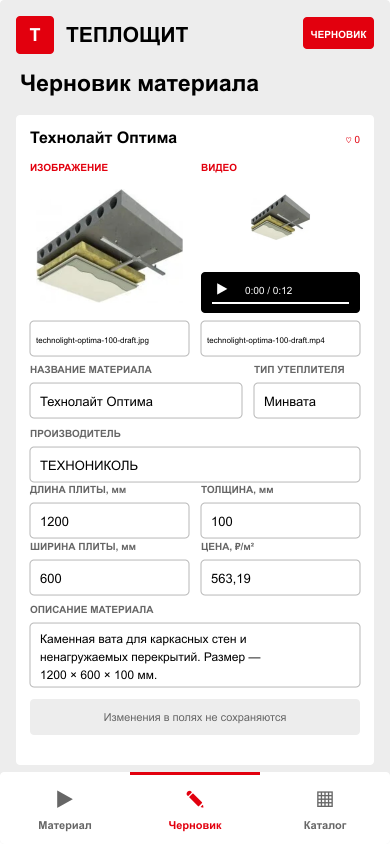
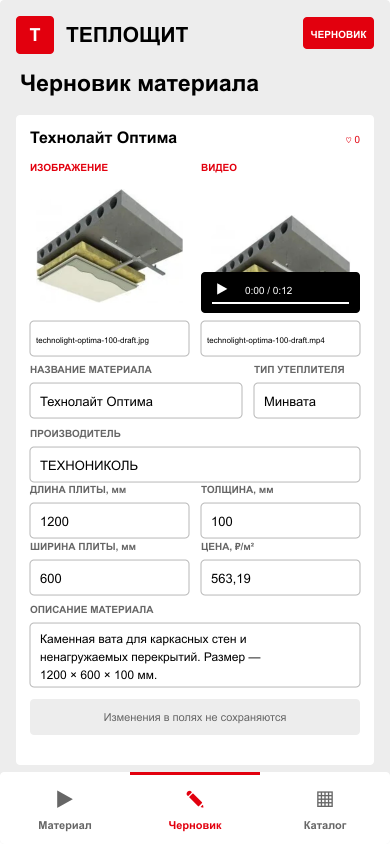
Исправить видео в черновике

Changed region(s): [[0.5538, 0.2156, 0.8923, 0.3389]]

diff --git a/public/insulation-materials.css b/public/insulation-materials.css
@@ -31,5 +31,5 @@ html{overscroll-behavior-y:none}
 .insulation-video::-webkit-media-controls,.insulation-video::-webkit-media-controls-enclosure,.insulation-video::-webkit-media-controls-panel,.insulation-video::-webkit-media-controls-overlay-play-button{display:none!important}/* Video is encoded at exactly twice the 390x772 feed area: no bars or cropping. */
 .insulation-video{object-fit:cover;object-position:center}
 
-.insulation-draft-inline-video{pointer-events:auto}.insulation-draft-note{display:flex;align-items:center;justify-content:center;text-align:center;min-height:36px}
+.insulation-draft-inline-video{pointer-events:auto;object-fit:cover;object-position:center 10%;background:#fff}.insulation-draft-note{display:flex;align-items:center;justify-content:center;text-align:center;min-height:36px}
 .insulation-card-picture,.insulation-card-image{height:82px}.insulation-application{font-size:9px;line-height:12px;color:#666;margin:4px 0;white-space:nowrap}.insulation-card-bottom strong{font-size:14px}.insulation-card .insulation-kind{font-size:8px;padding:3px 5px;top:3px;left:4px}.insulation-draft{padding-bottom:4px}
